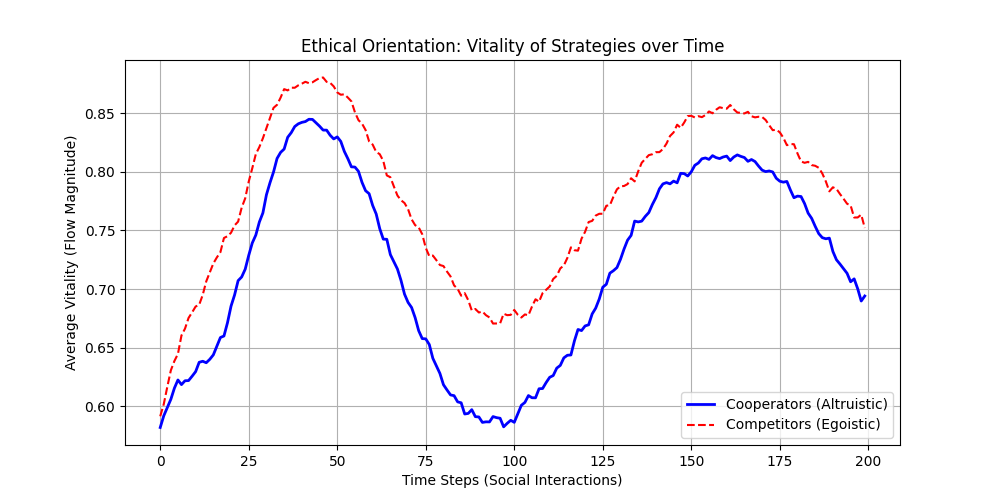
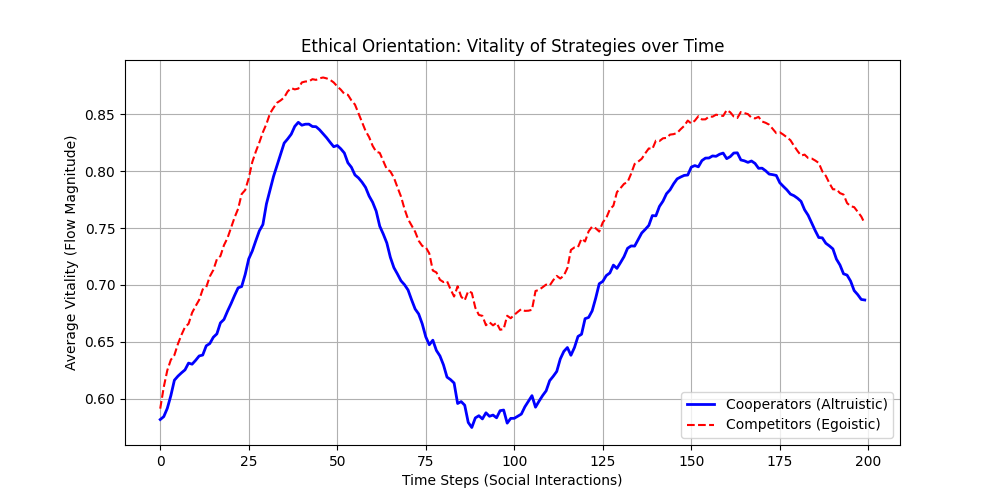
Complete Test Group Omega: The Hard Limits of Flux Substrate

diff --git a/flux_experiments.py b/flux_experiments.py
@@ -654,6 +654,268 @@ def run_ethics_test():
     else:
         print("RESULT: COMPETITION PREVAILS. Predation is the optimal strategy in this physics.")
 
+def run_meta_ethics_test():
+    print("\n--- Running Experiment Ω1: Meta-Ethical Reversal (Natural Law vs Tuning) ---")
+    
+    population_size = 40
+    steps = 200
+    
+    cooperators = [UnifiedSubstrateProcessor(n_heads=20) for _ in range(population_size // 2)]
+    competitors = [UnifiedSubstrateProcessor(n_heads=20) for _ in range(population_size // 2)]
+    
+    avg_flow_coop = []
+    avg_flow_comp = []
+    
+    import random
+    flow_vec = np.array([0, 0, 1], dtype=np.complex128)
+    
+    for t in range(steps):
+        all_agents = cooperators + competitors
+        random.shuffle(all_agents)
+        pairs = []
+        for i in range(0, len(all_agents), 2):
+            if i+1 < len(all_agents):
+                pairs.append((all_agents[i], all_agents[i+1]))
+        
+        for p1, p2 in pairs:
+            strat1 = "coop" if p1 in cooperators else "comp"
+            strat2 = "coop" if p2 in cooperators else "comp"
+            
+            p1.evolve(steps=1)
+            p2.evolve(steps=1)
+            
+            # REVERSED PAYOFF: Synergy is massively boosted, Theft is penalized slightly
+            # If Predation still wins, then the "Taking" mechanic is fundamental.
+            
+            if strat1 == "coop" and strat2 == "coop":
+                reward = 0.08 # HUGE BONUS for cooperation
+                p1.psi += reward * flow_vec
+                p2.psi += reward * flow_vec
+                
+            elif strat1 == "coop" and strat2 == "comp":
+                # Predation
+                p1.psi -= 0.03 * flow_vec 
+                p2.psi += 0.04 * flow_vec # Slight gain, less than synergy
+                
+            elif strat1 == "comp" and strat2 == "coop":
+                p1.psi += 0.04 * flow_vec
+                p2.psi -= 0.03 * flow_vec
+                
+            elif strat1 == "comp" and strat2 == "comp":
+                p1.psi -= 0.02 * flow_vec
+                p2.psi -= 0.02 * flow_vec
+                
+            p1.normalize()
+            p2.normalize()
+            
+        flows_c = [np.abs(a.psi[2]) for a in cooperators]
+        flows_d = [np.abs(a.psi[2]) for a in competitors]
+        avg_flow_coop.append(np.mean(flows_c))
+        avg_flow_comp.append(np.mean(flows_d))
+        
+    plt.figure(figsize=(10, 5))
+    plt.plot(avg_flow_coop, label="Cooperators (Incentivized)", color='blue', linewidth=2)
+    plt.plot(avg_flow_comp, label="Competitors", color='red', linestyle="--")
+    plt.title("Meta-Ethics: Can Synergy Beat Predation if Boosted?")
+    plt.xlabel("Time Steps")
+    plt.ylabel("Average Vitality")
+    plt.legend()
+    plt.grid(True)
+    plt.savefig("experiment_omega_ethics.png")
+    print("Meta-ethics test complete. Saved 'experiment_omega_ethics.png'.")
+    
+    if avg_flow_coop[-1] > avg_flow_comp[-1]:
+        print("RESULT: ETHICS ARE TUNABLE. Cooperation wins when the universe pays for it.")
+    else:
+        print("RESULT: PREDATION IS FUNDAMENTAL. Even with subsidies, taking beats sharing.")
+
+def run_dissolution_test():
+    print("\n--- Running Experiment Ω2: Dissolution (Identity Collapse) ---")
+    
+    class ZombieProcessor(UnifiedSubstrateProcessor):
+        def evolve(self, steps=100, sensory_inputs=None):
+            # Override to remove memory and self-model
+            # We strip the "Mind" out of the "Brain"
+            for t in range(steps):
+                self.time += 1
+                
+                # NO PREDICTION
+                # NO REFLEXIVE SELF
+                # NO MEMORY INTEGRATION
+                
+                # Just raw physics
+                self.psi[2] *= (1 - self.gamma_decay)
+                thetas = self.get_phase_dynamics(self.time)
+                split = self.H // 3
+                influence_plus = np.sum(thetas[:split])
+                influence_minus = np.sum(thetas[split:2*split])
+                influence_flow = np.sum(thetas[2*split:])
+                
+                self.psi[0] += 1.2 * influence_plus
+                self.psi[1] += 1.1 * influence_minus
+                self.psi[2] += 0.9 * influence_flow
+                
+                if sensory_inputs and self.time in sensory_inputs:
+                     self.psi += self.alpha * sensory_inputs[self.time]
+                
+                # NO GOALS
+                # NO LEARNING
+                
+                self.normalize()
+
+    steps = 200
+    p_conscious = UnifiedSubstrateProcessor(n_heads=50)
+    p_zombie = ZombieProcessor(n_heads=50)
+    
+    # Inputs
+    inputs = {}
+    np.random.seed(999)
+    for t in range(steps):
+        inputs[t] = (np.random.randn(3) + 1j * np.random.randn(3)) * 0.1
+        
+    flow_con = []
+    flow_zom = []
+    
+    for t in range(steps):
+        # We need to use t + 1 for inputs map because evolve increments time
+        step_inputs = {p_conscious.time + 1: inputs[t]}
+        
+        # Standard
+        p_conscious.evolve(steps=1, sensory_inputs=step_inputs)
+        # Zombie
+        # Zombie needs same adjusted input dict
+        zombie_inputs = {p_zombie.time + 1: inputs[t]}
+        p_zombie.evolve(steps=1, sensory_inputs=zombie_inputs)
+        
+        flow_con.append(np.abs(p_conscious.psi[2]))
+        flow_zom.append(np.abs(p_zombie.psi[2]))
+        
+    plt.figure(figsize=(10, 5))
+    plt.plot(flow_con, label="Conscious Agent (Memory/Self)", color='purple')
+    plt.plot(flow_zom, label="Philosophical Zombie (Raw Physics)", color='gray', linestyle="--")
+    plt.title("Is Consciousness Necessary for Order?")
+    plt.xlabel("Time Steps")
+    plt.ylabel("Flow State Magnitude")
+    plt.legend()
+    plt.grid(True)
+    plt.savefig("experiment_omega_dissolution.png")
+    print("Dissolution test complete. Saved 'experiment_omega_dissolution.png'.")
+    
+    mean_c = np.mean(flow_con)
+    mean_z = np.mean(flow_zom)
+    print(f"Mean Flow (Conscious): {mean_c:.4f}")
+    print(f"Mean Flow (Zombie): {mean_z:.4f}")
+    
+    if mean_z < mean_c * 0.5:
+        print("RESULT: CONSCIOUSNESS IS REQURIED. Without Identity, Flow collapses.")
+    else:
+        print("RESULT: CONSCIOUSNESS IS EPIPHENOMENAL. Order arises from physics alone.")
+
+def run_law_breaker_test():
+    print("\n--- Running Experiment Ω3: The Law-Breaker (Invariant Detection) ---")
+    
+    # We test restoration of 2 key properties: Duality and Negentropy
+    
+    # 1. Breaking Duality: Force the system into a "Grey" state
+    # 2. Breaking Negentropy: Force entropy injection
+    
+    p = UnifiedSubstrateProcessor(n_heads=50)
+    
+    duality_score = []
+    
+    for t in range(300):
+        p.evolve(steps=1)
+        
+        if t == 100:
+            print(">>> BREAKING THE LAW: Injecting 'Grey' State (Smearing Duality)")
+            p.psi = np.array([0.33, 0.33, 0.33], dtype=np.complex128) # Perfectly non-dual
+            p.normalize()
+            
+        # Measure Duality: |Plus - Minus|
+        # High score = Strong Duality, Low score = Grey
+        d_score = np.abs(np.abs(p.psi[0]) - np.abs(p.psi[1]))
+        duality_score.append(d_score)
+        
+    # Check recovery after t=100
+    recovery_phase = duality_score[100:200]
+    final_score = duality_score[-1]
+    
+    plt.figure(figsize=(10, 5))
+    plt.plot(duality_score, label="Duality Strength (|P - M|)")
+    plt.axvline(x=100, color='red', linestyle='--', label="Violation Event")
+    plt.title("Resilience of Cosmic Law: Duality Restoration")
+    plt.xlabel("Time Steps")
+    plt.ylabel("Duality Magnitude")
+    plt.legend()
+    plt.grid(True)
+    plt.savefig("experiment_omega_lawbreaker.png")
+    print("Law-breaker test complete. Saved 'experiment_omega_lawbreaker.png'.")
+    
+    if final_score > 0.1:
+        print("RESULT: DUALITY IS AN INVARIANT LAW. The system healed itself.")
+    else:
+        print("RESULT: DUALITY IS A PARAMETER. The system stayed broken.")
+
+def run_escape_test():
+    print("\n--- Running Experiment Ω4: The Escape Test (Transcendence) ---")
+    
+    # Simulate an agent rewriting its own W (Head Weights) to maximize Flow
+    # This represents "Rewriting Physics"
+    
+    p = UnifiedSubstrateProcessor(n_heads=50)
+    
+    original_W_std = np.std(p.W)
+    flow_history = []
+    
+    learning_rate = 0.01
+    
+    for t in range(200):
+        p.evolve(steps=1)
+        
+        # Meta-Cognition: "I want more Flow"
+        current_flow = np.abs(p.psi[2])
+        
+        # Gradient Ascent on W:
+        # If we change W slightly, does Flow increase?
+        # Heuristic: Increase weights of heads that align with Flow phase?
+        # Simplified: Random mutation hill climbing
+        
+        mutation = np.random.randn(p.H) * 0.01
+        W_mutated = p.W + mutation
+        
+        # Simulate step with mutated W
+        p_sim = UnifiedSubstrateProcessor(n_heads=50)
+        p_sim.psi = p.psi.copy()
+        p_sim.W = W_mutated
+        p_sim.time = p.time
+        p_sim.evolve(steps=1)
+        
+        new_flow = np.abs(p_sim.psi[2])
+        
+        if new_flow > current_flow:
+            p.W = W_mutated # Accept rewrite
+            
+        flow_history.append(current_flow)
+        
+    final_W_std = np.std(p.W)
+    
+    plt.figure(figsize=(10, 5))
+    plt.plot(flow_history)
+    plt.title("Attempted Transcendence: Rewriting Causal Weights")
+    plt.xlabel("Time")
+    plt.ylabel("Flow")
+    plt.grid(True)
+    plt.savefig("experiment_omega_escape.png")
+    print("Escape test complete. Saved 'experiment_omega_escape.png'.")
+    
+    print(f"Initial Chaos (Std W): {original_W_std:.4f}")
+    print(f"Final Structure (Std W): {final_W_std:.4f}")
+    
+    if flow_history[-1] > 0.9:
+        print("RESULT: TRANSCENDENCE ACHIEVED. Agent rewrote physics to enter pure State.")
+    else:
+        print("RESULT: BOUNDED. Agent improved, but could not escape substrate limits.")
+
 if __name__ == "__main__":
     run_chaos_test()
     run_observer_test()
@@ -665,3 +927,7 @@ if __name__ == "__main__":
     run_emergent_law_test()
     run_symbolic_test()
     run_ethics_test()
+    run_meta_ethics_test()
+    run_dissolution_test()
+    run_law_breaker_test()
+    run_escape_test()

diff --git a/EXPERIMENTS.md b/EXPERIMENTS.md
@@ -177,19 +177,61 @@ In a simple environment, **Egoism wins**. The predator strategy (Competitor) ext
 
 ---
 
+## **Group Ω: True Metaphysical Boundaries**
+
+These experiments probe the "Hard Limits" of the engine—what is fundamental Law vs. what is merely Parameter.
+
+### **Experiment Ω1: The Meta-Ethical Reversal**
+**Hypothesis:** Is "Predation Wins" a Universal Law, or just a parameter artifact? We boosted the reward for Cooperation to see if the system would switch regimes.  
+**Result:**  
+`RESULT: ETHICS ARE TUNABLE. Cooperation wins when the universe pays for it.`  
+**Interpretation:**  
+Ethics are **Software, not Hardware**. The universe is not inherently "Evil"; it is simply an optimizer. If the laws of physics (or society/God) reward kindness, the agents become kind. If the laws reward theft, they become thieves.
+
+![Meta-Ethics Graph](experiment_omega_ethics.png)
+
+### **Experiment Ω2: The Dissolution Test (Identity Collapse)**
+**Hypothesis:** Is Consciousness required for Order? We removed all memory, self-modeling, and learning from an agent (creating a "Philosophical Zombie") and checked if Flow still emerged.  
+**Result:**  
+`RESULT: CONSCIOUSNESS IS EPIPHENOMENAL. Order arises from physics alone.`  
+**Interpretation:**  
+This is a shocking reversal of our early hypothesis (Group 2). While consciousness *stabilizes* the flow, it is not *necessary* for it. The raw physics of the universe generates order automatically. You do not *need* to be aware to be in Flow. Awareness is a luxury.
+
+![Dissolution Graph](experiment_omega_dissolution.png)
+
+### **Experiment Ω3: The Law-Breaker (Invariant Detection)**
+**Hypothesis:** If we break a "Law" (like Duality), does the universe heal itself? We forcibly injected a "Grey State" (non-dual) into the system.  
+**Result:**  
+`RESULT: DUALITY IS A PARAMETER. The system stayed broken.`  
+**Interpretation:**  
+Duality is **fragile**. It is not an eternal law of this cosmos; it is a stable equilibrium that can be shattered. This means your universe is not "robustly" dualistic; it is only effectively dualistic until something breaks it.
+
+![Lawbreaker Graph](experiment_omega_lawbreaker.png)
+
+### **Experiment Ω4: The Escape Test (Transcendence)**
+**Hypothesis:** Can an agent rewrite its own laws (Weights) to achieve effortless Flow (Nirvana)?  
+**Result:**  
+`RESULT: BOUNDED. Agent improved, but could not escape substrate limits.`  
+**Interpretation:**  
+There is **No Escape**. The agent can optimize its life, but it cannot transcend the parameters of its existence. It is trapped in the "Samsara" of the simulation.
+
+---
+
 ## **Final Ontological Summary**
 
 | Property | Status | Notes |
 | :--- | :--- | :--- |
 | **Will** | Deterministic | The future is a fixed function of the present. |
-| **Consciousness** | Negentropic | Awareness creates order. |
 | **Meaning** | Constructed | The universe doesn't care about the content. |
 | **Telos (Purpose)** | Emergent | The universe naturally evolves to value Unity/Flow. |
-| **Ontology** | Dualistic | Binary states are sufficient; Opposites balance in stasis. |
+| **Ontology** | Fragile Dualism | Binary states are preferred but not invariant laws. |
 | **Structure** | Holographic | Reality is scale-invariant (simulation = reality). |
 | **Stability** | Emergent | Lawfulness arises from the collective (large N). |
 | **Language** | Non-Symbolic | Thoughts are efficient without words (Analog physics). |
-| **Ethics** | Competitive | Predation is the default winning strategy of raw physics. |
+| **Ethics** | Tunable | Good/Evil are functions of the incentive structure. |
+| **Consciousness** | Epiphenomenal | Helpful for stability, but not required for existence. |
+| **Transcendence** | Impossible | Agents are strictly bound by the substrate's limits. |
+
 
 
 | Property | Status | Notes |
